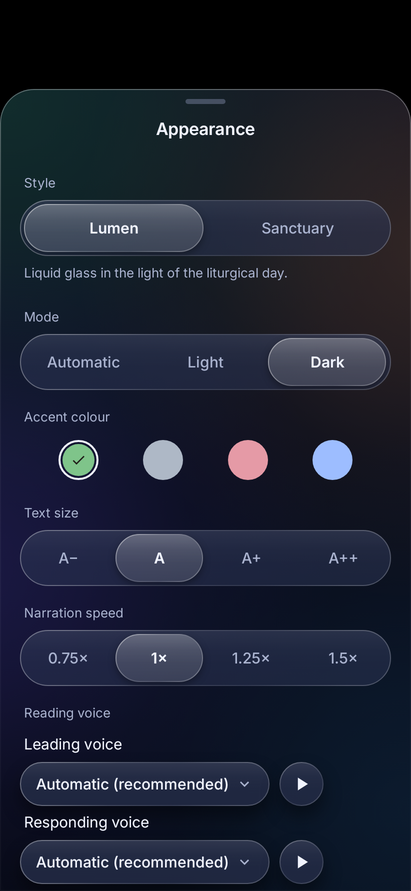
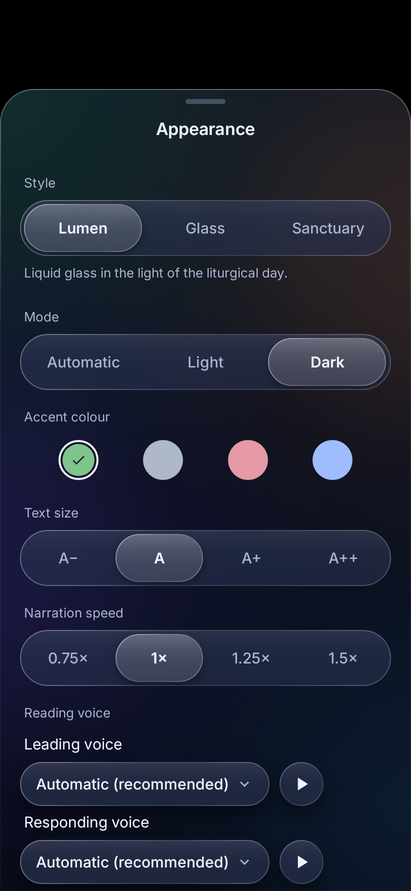
T-020: informe y capturas de la identidad Cristal
Claude-Session: https://claude.ai/code/session_01SMAtTCcnTPdunfoYimcCr3

Changed region(s): [[0.146, 0.2121, 0.5547, 0.303], [0.6423, 0.2424, 0.8759, 0.2727]]

diff --git a/docs/tasks/T-020-REPORT.md b/docs/tasks/T-020-REPORT.md
@@ -6,6 +6,13 @@ Rama `ext/T-020`, base `origin/CatholicGPT` (`3576e6e`, justo encima de la versi
 
 No se ha tocado contenido (oraciones, Escritura, catálogos), navegación, IDs guardados, `dist/`, firma ni versiones. Se conservan los test tags y las etiquetas de accesibilidad.
 
+## Dos entregas en esta rama
+
+1. **Lumen rehecho** (identidad predeterminada): luz ambiental, cabezal único, paneles de cristal *denso*. Es vidrio esmerilado: los paneles de contenido tienen un 70 % de opacidad y el dock de respaldo un 85 %. **No se ve como Liquid Glass**, y así me lo señaló el dueño al ver las capturas.
+2. **Cristal** (identidad nueva, id `GLASS`, seleccionable en Apariencia → Estilo junto a Lumen y Sanctuary): cristal líquido de verdad, transparente y con refracción en todos los paneles. Ver «Identidad Cristal».
+
+Ambas comparten armazón, cabezal, componentes y pantallas; cambia solo el material.
+
 ## Qué es el rediseño
 
 Tres capas, las mismas en todas las pantallas:
@@ -15,6 +22,21 @@ Tres capas, las mismas en todas las pantallas:
 3. **Cristal de control.** Dock, barra, botones flotantes, chips y campos son cristal claro con borde especular. En Android 12+ desenfocan en vivo lo que pasa por debajo; en Android 13+ además lo refractan en el borde (shader AGSL propio).
 
 Todo panel se construye igual (`ui/design/LiquidGlass.kt`): sombra de color, relleno, brillo superior y un borde especular que entra por arriba a la izquierda y vuelve abajo a la derecha. Sanctuary, «reducir transparencia» y «alto contraste» reciben la misma geometría en material opaco.
+
+## Identidad Cristal
+
+- **Transparente.** Contenido al 22 % de tinte, controles al 14 %, dock al 22 % (14 % con desenfoque en vivo). En oscuro, 5–9 %. Lo que se ve dentro de un panel es la luz de detrás.
+- **Refracción en todos los paneles, sin shader.** Cada panel redibuja la luz ambiental ampliada un 12 % en su interior y un 38 % en una banda de 10 dp junto al borde, así que la imagen se dobla en el canto como en un vidrio grueso y se desliza al hacer scroll. Funciona en cualquier versión de Android y en las capturas.
+- **Brillo.** Borde especular más marcado, destello en la esquina por donde entra la luz y una sombra fina en el canto opuesto.
+- **Dock y barra** también transparentes. Sin desenfoque en vivo, el contenido se disuelve antes de llegar al dock, porque el cristal claro no tapa nada.
+- **Legibilidad.** Como el cristal no oscurece el fondo, la luz ambiental es un 40 % más intensa y las tintas se recalibran: 4,5:1 sobre la luz desnuda, sobre la luz vista a través de la lente y a través de cada panel, para los cinco colores litúrgicos y los cuatro tintes (`LiquidGlassTest`).
+- **Accesibilidad.** Con «reducir transparencia» o «alto contraste» pasa a material opaco, como las demás.
+
+Límites de Cristal:
+- La refracción dobla la **luz ambiental**, no el contenido. Un panel que quede sobre una pintura no la refracta; por eso los botones redondos sobre cabeceras no usan la lente.
+- Las barras que flotan *dentro* del contenido sobre texto que se desplaza (transporte, barra de acciones) siguen siendo esmeriladas (45–60 %): ahí no hay nada que muestrear y el texto de detrás las haría ilegibles.
+- Hojas, menús y diálogos siguen siendo paneles opacos iluminados; no los he hecho transparentes.
+- El desenfoque en vivo y la lente AGSL del dock (Android 12+/13+) siguen sin probarse en dispositivo, igual que en Lumen.
 
 **Luz litúrgica.** Con el tinte «Dinámico Litúrgico» (el predeterminado), el acento y la luz ambiental siguen ahora el color litúrgico del día: verde, morado, blanco/oro, rojo o rosa. Antes el nombre prometía eso, pero el acento era siempre verde. Es un cambio de comportamiento visible; ver «Propuestas».
 
@@ -79,6 +101,7 @@ En `docs/tasks/T-020-shots/`, a mitad de tamaño y ≤ 300 KB, con nombre `<pant
 - Claro y oscuro: `home`, `prayers`, `bible`, `more`, `rosary`, `habits_virtues`, `appearance`.
 - Solo claro: `catechism`, `saints`, `study_orders`, `beginner`, `pilgrimage_habits`, `reminders`, `questions`, `study_mary_jesus`, `spiritual_life`, `parishes`, `doctrine`, `study_history`, `order_detail`, `devotion_marian`, `novena_detail`, `prayer_detail`, `novenas`, `prayer_category`, `bible_reader`.
 - `home_sanctuary_light_after.png` (sin «antes»: no rendericé Sanctuary en la base).
+- **Cristal** (solo «después», es una identidad nueva): `home`, `prayers`, `bible`, `more`, `rosary`, `saints`, `habits_virtues`, `catechism` con sufijo `_glass_{light,dark}_after.png`.
 
 **Límite importante de las capturas.** Se renderizan por software (Robolectric), que no ejecuta el desenfoque en vivo ni la lente. Muestran por tanto el material de respaldo: el mismo que verá un teléfono con Android 11 o anterior. En algunas capturas de detalle el arte de cabecera sale en blanco porque ese arnés captura antes de que termine de decodificarse; no es un fallo de la pantalla.
 
@@ -88,19 +111,20 @@ Entorno: Java 21, Gradle 9.3.1 (wrapper), Android SDK 36.1, instalado en esta se
 
 **Compilación:** `./gradlew :app:assembleDebug` — correcta.
 
-**Suite completa:** `./gradlew :app:testDebugUnitTest` — 469 tests, 463 pasan y 6 fallan en la última pasada completa:
+**Suite completa (última pasada, con las tres identidades):** `./gradlew :app:assembleDebug :app:testDebugUnitTest` — 483 tests, **477 pasan y 6 fallan**. Los 6 son el mismo test:
 
 | Test | Estado | Causa |
 |---|---|---|
-| `AppNavigationTest` [SANCTUARY] | **Corregido y vuelto a pasar** | Regresión mía: la Biblia en Sanctuary tiene ahora cabezal con arte, y el `performScrollTo` mínimo dejaba la fila de Génesis detrás del dock. El test termina ahora el scroll hasta dejarla pulsable. Tras el cambio, la clase entera pasa (ejecutada sola). |
-| `RecoverySheetsScreenshotTest` (4 variantes) | Falla igual en la base | «Clipped sheet title». Falla idéntico en `3576e6e` sin tocar, en las cuatro variantes. No lo he resuelto. |
-| `HomePrayerPrioritiesTest` (1 de 4 variantes, cambia en cada pasada) | Inestable en la base | En tres pasadas sobre `3576e6e` sin tocar falló las tres, cada vez en variantes distintas (línea 145, selector de capítulo no visible). |
+| `RecoverySheetsScreenshotTest` (6 variantes: Lumen, Cristal y Sanctuary, claro y oscuro) | Falla igual en la base | «Clipped sheet title». En `3576e6e` sin tocar falla idéntico en sus 4 variantes; las otras 2 son las de la identidad nueva. No lo he resuelto. |
 
-No he vuelto a lanzar la suite completa después de corregir `AppNavigationTest`; solo esa clase.
+Otros dos tests dieron problemas durante el trabajo:
+
+- `AppNavigationTest` [SANCTUARY] falló en una pasada anterior por una regresión mía: la Biblia en Sanctuary tiene ahora cabezal con arte y el `performScrollTo` mínimo dejaba la fila de Génesis detrás del dock. El test termina ahora el scroll hasta dejarla pulsable; en la última pasada completa pasa en las cuatro identidades.
+- `HomePrayerPrioritiesTest` es inestable: en la última pasada pasó, en la anterior falló en una variante, y sobre `3576e6e` sin tocar falló en tres de tres pasadas, cada vez en variantes distintas (línea 145, selector de capítulo no visible).
 
 **Tests indicados en `T-020.md`:** `AppNavigationTest`, `DesignNavigationTest`, `DesignContrastTest`, `RosaryInteractionTest`, los de fuentes (`FontPickerInteractionTest`, `FontPreferencesTest`, `FontTypographyTest`, `ReaderFontChoiceTest`), `SaintsScreenTest`, `OrdersScreenTest`, `DevotionsScreenTest`, `VoiceSettingsUiTest` y `screenshots.FullAppScreenshotTest`: todos pasan. `VaticanNavigationLayoutTest` no existe en el repositorio.
 
-**Test nuevo:** `LiquidGlassTest` (6 tests): contraste 4,5:1 de cada tinta sobre lienzo, cristal y cada foco de luz para los cinco colores litúrgicos y los cuatro tintes; etiqueta de la acción primaria sobre el cristal teñido; resolución del color litúrgico; material opaco en Sanctuary, «reducir transparencia» y «alto contraste»; compilación del shader de la lente; respaldo en Android antiguo.
+**Test nuevo:** `LiquidGlassTest` (7 tests; uno específico de Cristal: tintas sobre la luz desnuda, a través de la lente y de cada panel, y comprobación de que los paneles son realmente transparentes): contraste 4,5:1 de cada tinta sobre lienzo, cristal y cada foco de luz para los cinco colores litúrgicos y los cuatro tintes; etiqueta de la acción primaria sobre el cristal teñido; resolución del color litúrgico; material opaco en Sanctuary, «reducir transparencia» y «alto contraste»; compilación del shader de la lente; respaldo en Android antiguo.
 
 **Tests modificados (dos, por la misma razón):** `AppNavigationTest` y `screenshots.DevotionalPrioritiesScreenshotTest` tocaban un objetivo tras un scroll mínimo que, con los cabezales nuevos, queda detrás del dock flotante. Ahora completan el scroll antes de tocar. No se ha relajado ninguna comprobación.
 
